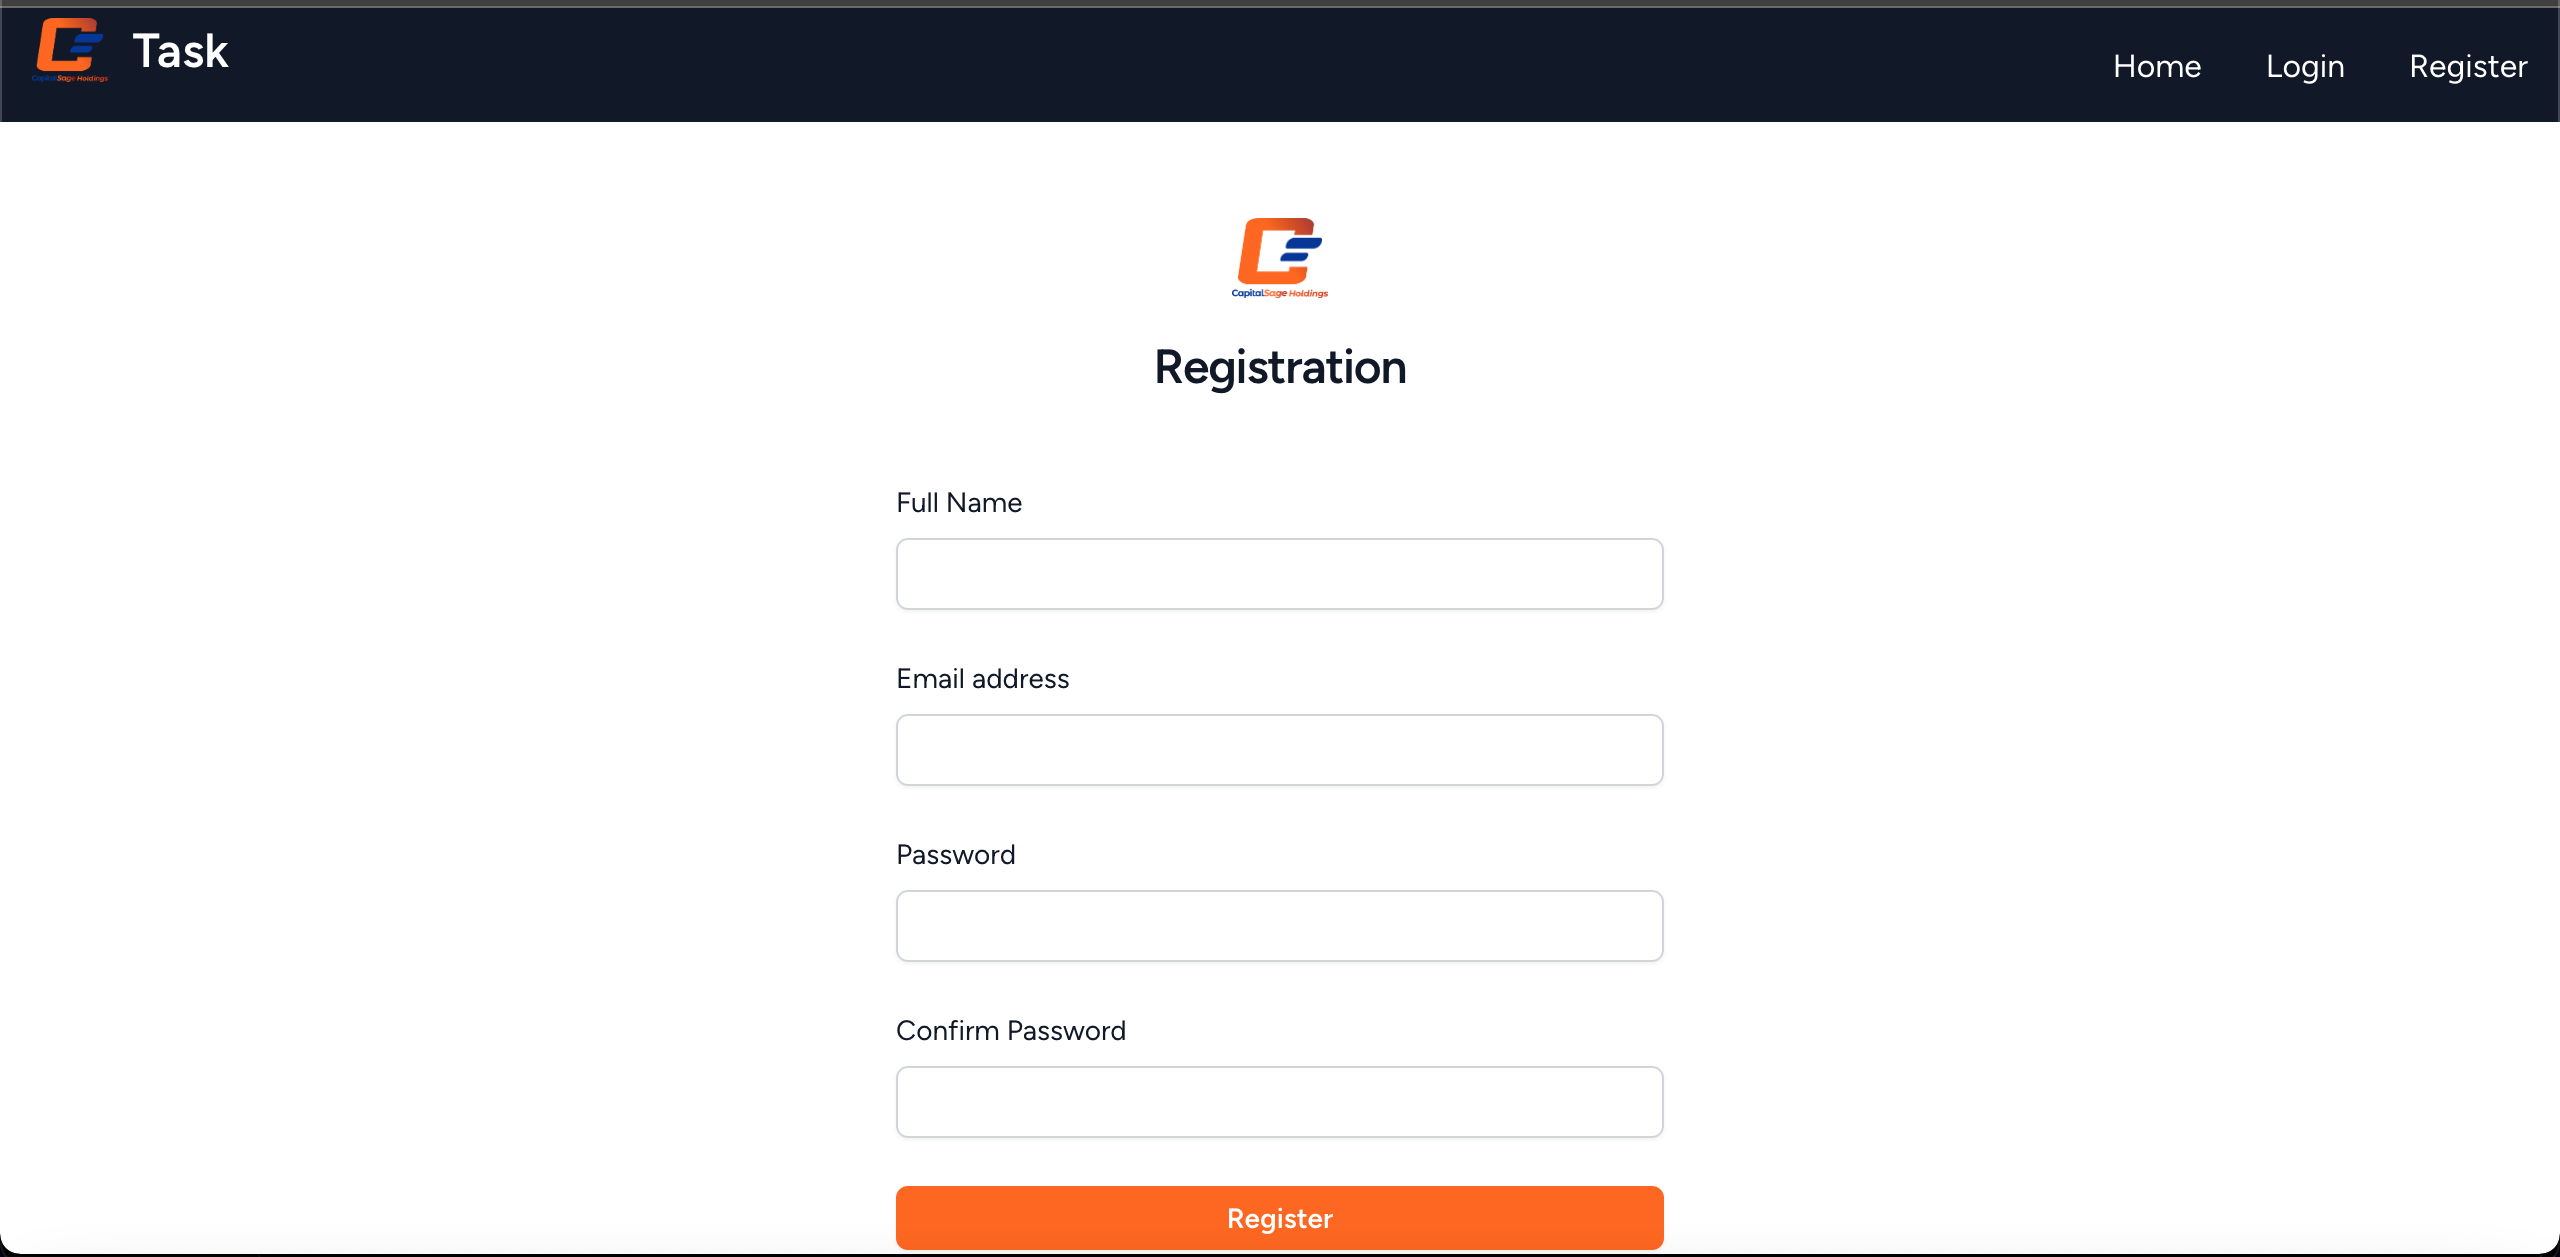
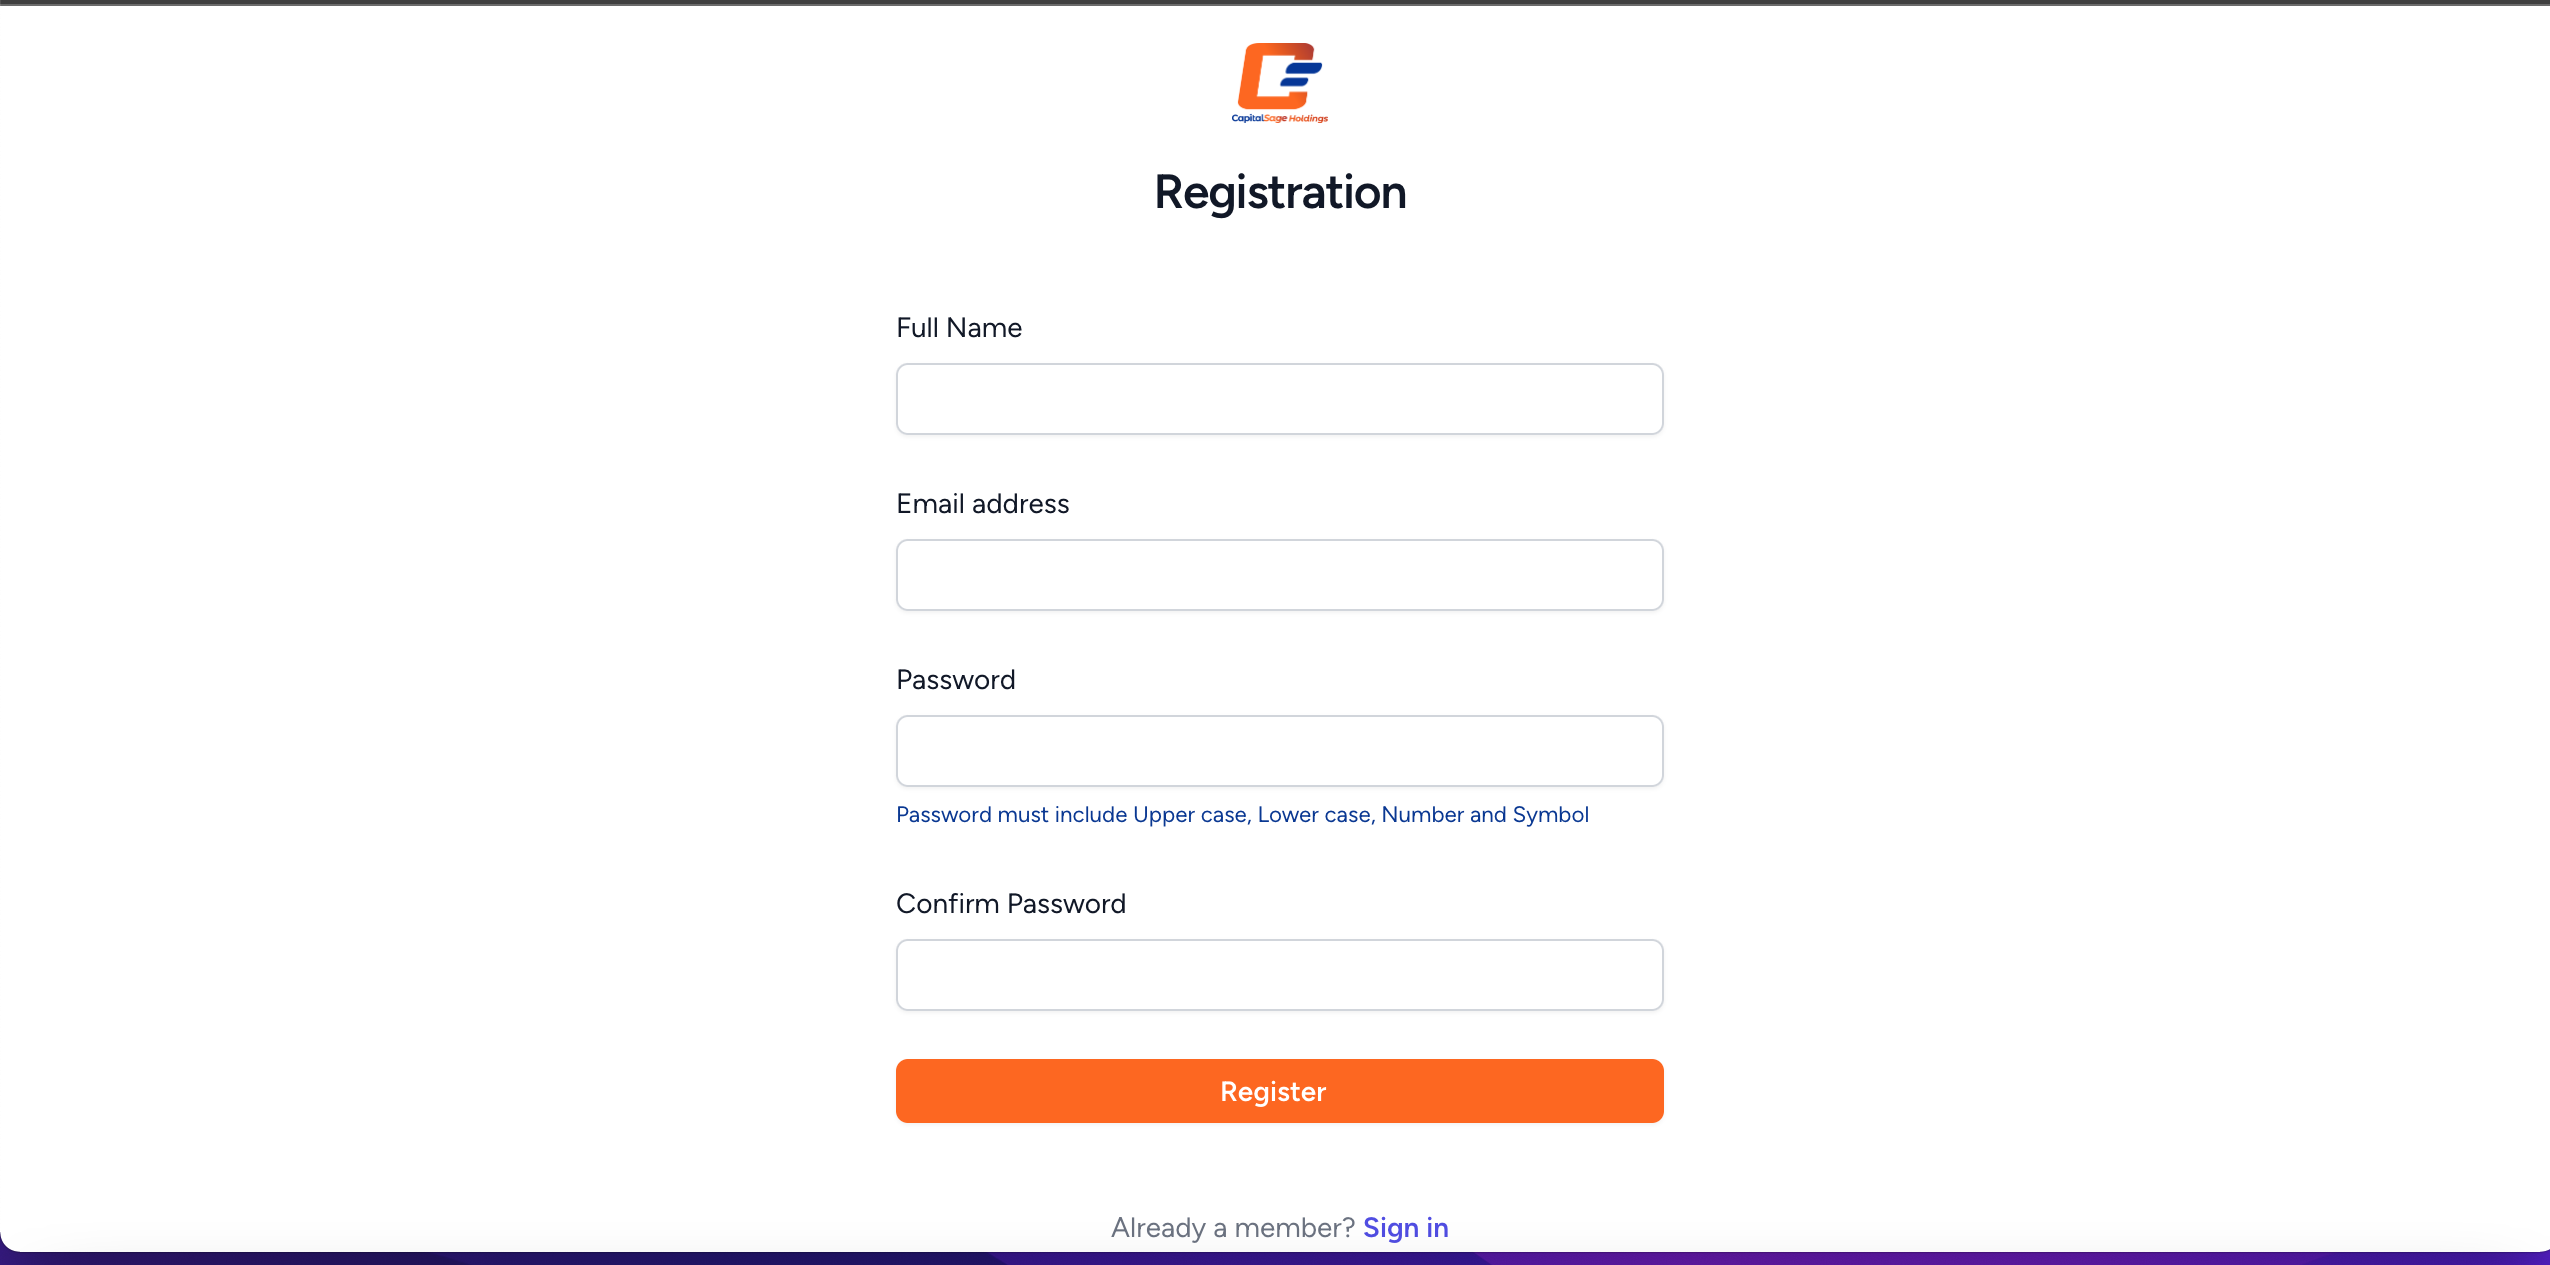
Code refactored

diff --git a/resources/js/custom.js b/resources/js/custom.js
@@ -4,6 +4,9 @@ const selectElement = (el) =>{
 
 selectElement(".spinningIcon").style.display ="none";
 
+//Make spinner visible
 selectElement(".nonAjaxForm").addEventListener("submit", function(){
     selectElement(".spinningIcon").style.display ="block";
-})
+});
+
+

diff --git a/resources/views/auth/registration.blade.php b/resources/views/auth/registration.blade.php
@@ -41,7 +41,8 @@
                     </div>
                     <div class="mt-2">
                         <input id="password" name="password" type="password" required autocomplete="password"
-                               class="block w-full rounded-md border-0 py-1.5 text-gray-900 shadow-sm ring-1 ring-inset ring-gray-300 placeholder:text-gray-400 focus:ring-2 focus:ring-inset focus:ring-indigo-600 sm:text-sm sm:leading-6">
+                               class="password block w-full rounded-md border-0 py-1.5 text-gray-900 shadow-sm ring-1 ring-inset ring-gray-300 placeholder:text-gray-400 focus:ring-2 focus:ring-inset focus:ring-indigo-600 sm:text-sm sm:leading-6">
+                    <span class="custom-hint-text" style="font-size: 0.7em;">Password must include Upper case, Lower case, Number and Symbol</span>
                     </div>
                     @error('password')
                     <div class="text-red-500">{{ $message }}</div>
@@ -54,8 +55,8 @@
                             Password</label>
                     </div>
                     <div class="mt-2">
-                        <input id="cPassword" name="password_confirmation" type="password" required
-                               autocomplete="password" required
+                        <input id="confirmPassword" name="password_confirmation" type="password" required
+                               autocomplete="confirmPassword" required
                                class="block w-full rounded-md border-0 py-1.5 text-gray-900 shadow-sm ring-1 ring-inset ring-gray-300 placeholder:text-gray-400 focus:ring-2 focus:ring-inset focus:ring-indigo-600 sm:text-sm sm:leading-6">
                     </div>
                 </div>

diff --git a/resources/views/auth/login.blade.php b/resources/views/auth/login.blade.php
@@ -1,5 +1,5 @@
 <x-layout>
-    @include("includes.message")
+
     <div class="flex min-h-full flex-col justify-center px-6 py-12 lg:px-8">
         <div class="sm:mx-auto sm:w-full sm:max-w-sm">
             <img class="mx-auto h-10 w-auto" src="https://res.cloudinary.com/dg8z8uh8f/image/upload/v1691324438/htmaey7rpkty5zti0mvq.png" alt="Your Company">
@@ -7,6 +7,7 @@
         </div>
 
         <div class="mt-4 sm:mx-auto sm:w-full sm:max-w-sm">
+            @include("includes.message")
             <form class="space-y-6 nonAjaxForm" action="/login" method="POST">
                 @csrf
                 <div>
